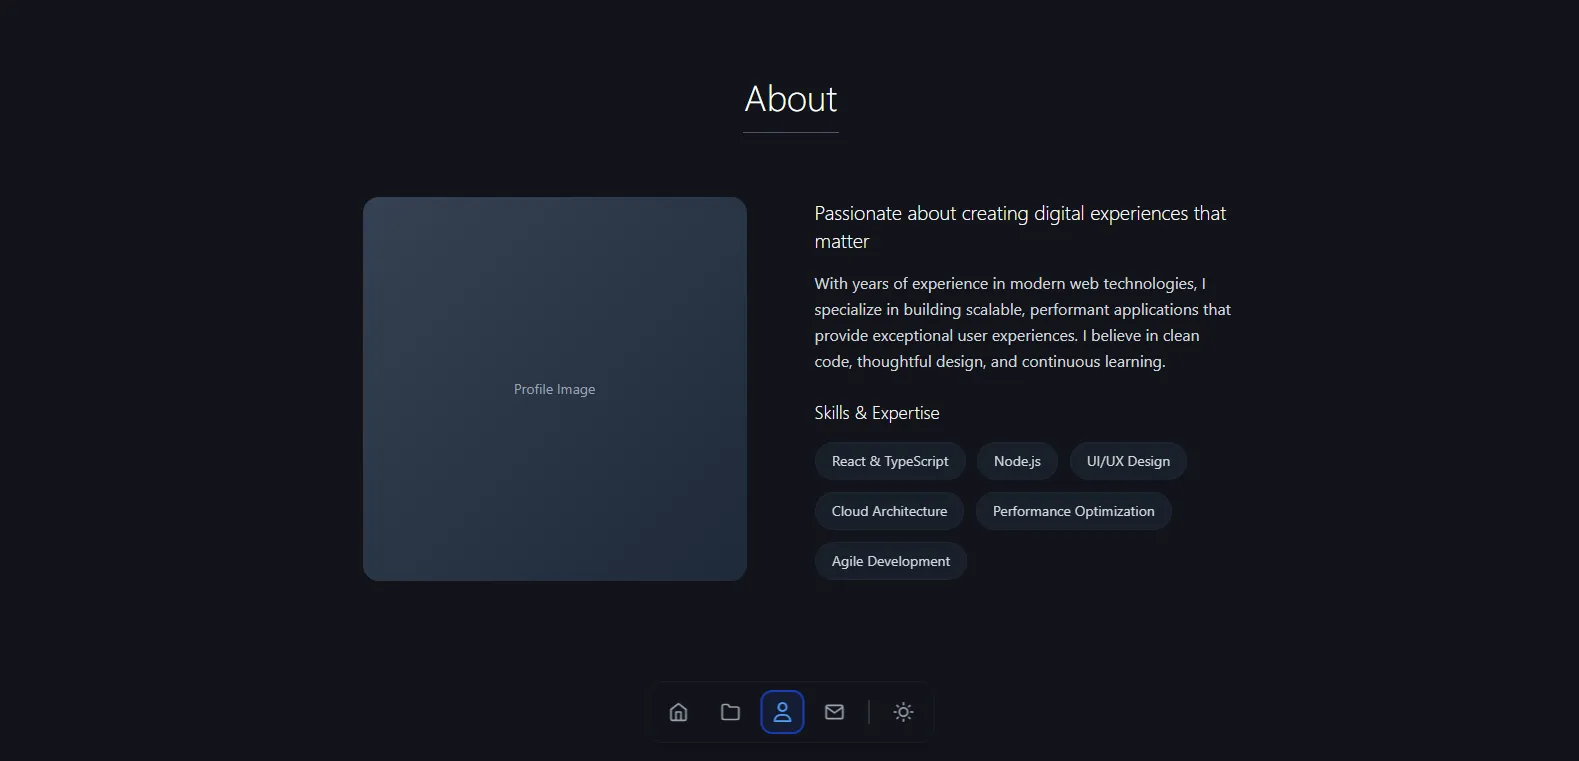
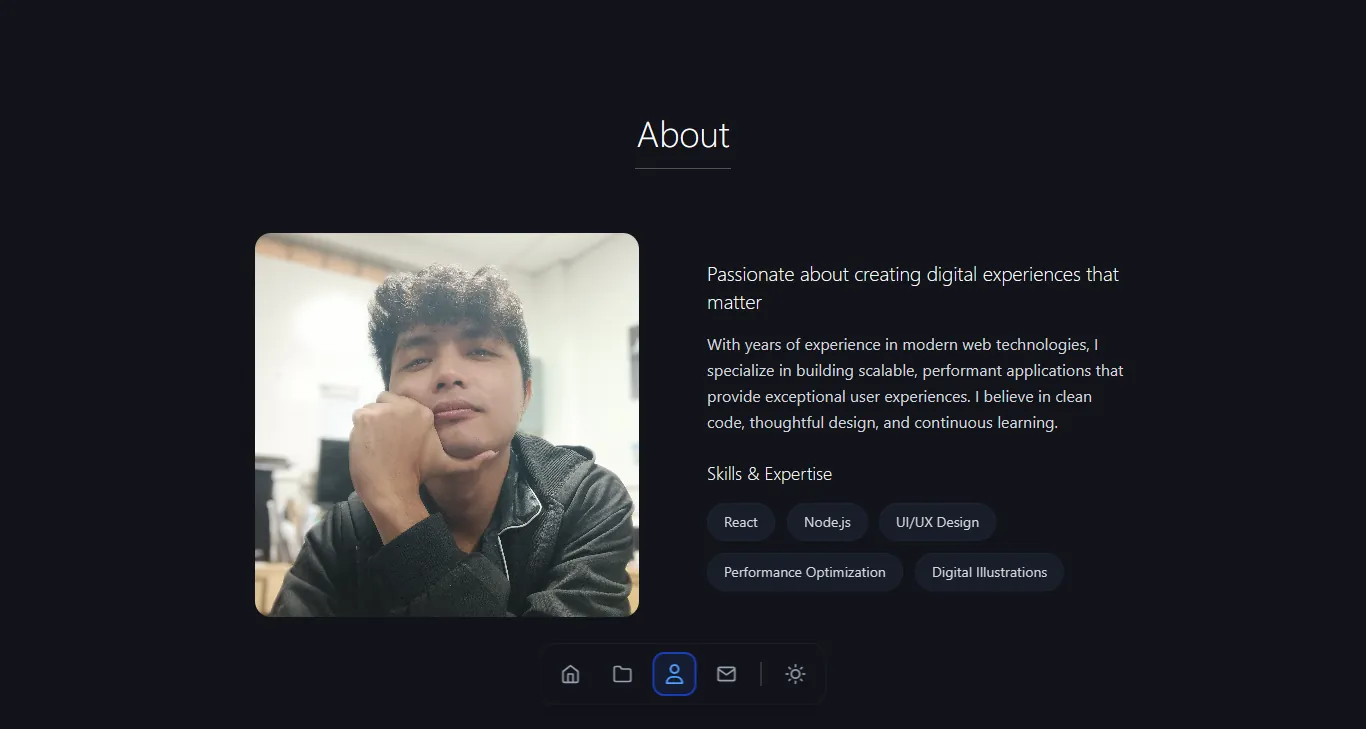
feat: revamp images for pages.

diff --git a/README.md b/README.md
@@ -4,7 +4,7 @@
       <img alt="Carlo Dandan" src="https://raw.githubusercontent.com/carlodandan/carlodandan/refs/heads/main/public/icons/ms-icon-310x310.png" width="220"/>
     </a>
   </div>
-    <h3 align="center">carlodandan | An Artist that Tells a Story</h3>
+    <h3 align="center">Carlo Dandan | An Artist that Tells a Story</h3>
     <p align="center">
 </p>
 </p>
